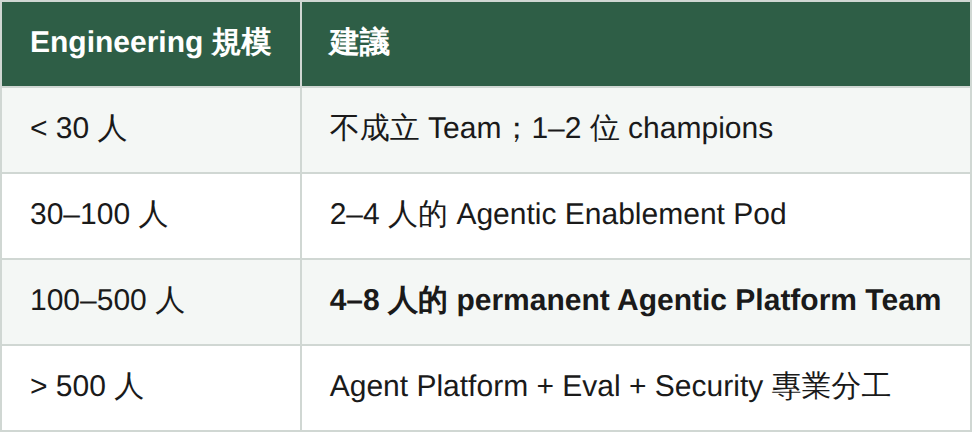
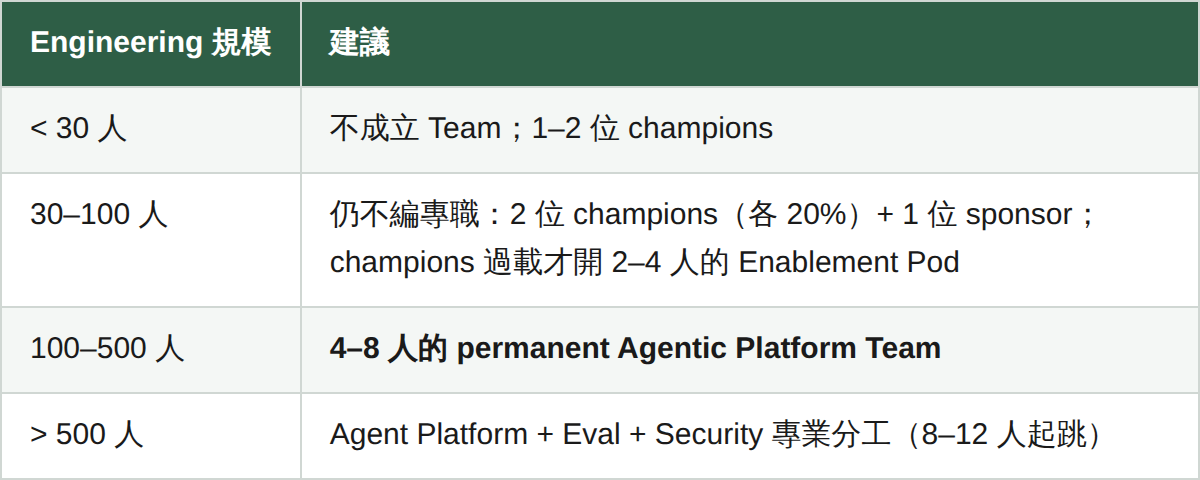
Align overview with trilogy: dedupe AGENTS.md example, fix scale-table contradiction, correct cross-references; regenerate all four Medium publish packs for simultaneous release

diff --git a/2026-09-agentic-engineering-platform/publish/medium-paste.md b/2026-09-agentic-engineering-platform/publish/medium-paste.md
@@ -1,17 +1,24 @@
 <!--
 Medium 發布指南（此註解區塊不要貼進 Medium）
-1. 開新 story：https://medium.com/new-story
-2. 全文複製下方內容貼上（從標題那行開始）。
-3. 看到 📌【在此插入…】的行：刪掉該行，按 + 插入對應的 PNG（zip 內附）。
-4. 圖片下方可加 caption（圖檔對應段落主題）。
-5. AGENTS.md 範例與 North Star 公式那兩段：在 Medium 中選取後按 ``` 轉成 code block。
-6. 引號連結都已是行內 markdown，Medium 貼上後自動轉連結；若沒有，選取文字按 ⌘K 補上。
-7. 發布前：Add tags 建議 AI, Software Engineering, Engineering Management, Agentic AI, DevOps
+
+【四篇同時發布，建議流程】
+1. 依序開四則 story（總論 → 組織篇 → 技術篇 → 營運篇）：https://medium.com/new-story
+2. 各篇貼上對應的 medium-paste.md 內容（從標題那行開始，不含本註解）。
+3. 看到 📌【在此插入…】的行：刪掉該行，按 + 插入同目錄 images/ 裡對應的 PNG。
+4. 四篇都存成草稿後，記下各篇的 Medium URL。
+5. 回頭編輯每一篇，把兩處的系列連結換成真正的 Medium URL：
+   (a) 開頭的「系列導覽」那一行
+   (b) 文末的「系列文章」清單
+   （貼上版裡這些連結是 GitHub 相對路徑，在 Medium 上無效，務必替換）
+6. code block：在 Medium 選取後按 ``` 轉成 code block。
+7. 四篇一起 Publish。Tags 建議：AI, Software Engineering, Engineering Management, Agentic AI, DevOps
 -->
 
 # 別急著打造你的 Devin：Agentic Engineering 的組織策略與 90 天行動藍圖
 
 > **TL;DR** — 多數 Engineering Group 不需要成立一個「幫各 Team 做 Agent」的 silo，但很值得成立一個小型的 **Agentic Engineering Platform / Enablement Team**。而且不要從零打造完整的 agent runtime：正確策略是「**買/採用通用 agent runtime，自建 organization-specific harness layer**」。如果用 DevOps 的歷史對照，2026 年 9 月的 Agentic Engineering，大約等於 DevOps / Cloud Native 的 2014–2016 年：方向已經確定，基礎元件開始出現，但最佳實務與組織架構還沒定型。文末附上前 90 天的行動藍圖。
+
+> 系列導覽：**總論（本篇）** → [一、組織篇](../2026-09-agentic-org-design/article.md) → [二、技術篇](../2026-10-agentic-harness-blueprint/article.md) → [三、營運篇](../2026-11-agentic-eval-economics/article.md)
 
 ---
 
@@ -126,7 +133,7 @@ Ownership 的切分如下：
 
 📌【在此插入表 table-04.png】
 
-即使超過 500 人，我也不會讓中央 Team 負責「替大家做 agents」。
+即使超過 500 人，我也不會讓中央 Team 負責「替大家做 agents」。每一級的實際編制圖、skill mix，以及「什麼時候該升到下一級」的訊號，見[組織篇](../2026-09-agentic-org-design/article.md)。
 
 還有一個常被跳過的問題：**champion 怎麼選、人怎麼轉型**。好的 agent champion 不是「最會寫 prompt 的人」，而是原本就擅長經營 developer experience 的人——會寫測試、會整理文件、對 CI/CD 與 tooling 有 sense 的工程師。因為 harness engineering 本質上就是 DX engineering 的延伸，對象從人換成了 agent 而已。
 
@@ -142,23 +149,20 @@ Ownership 的切分如下：
 
 **Prompt 反而可能是其中最不重要的一小塊。**這也是為什麼業界最近開始講 Harness Engineering，而不再是 Prompt Engineering。
 
-### 一段具體的 AGENTS.md
+### AGENTS.md：寫對與寫錯的差別
 
-「Context」那一支值得給一個具體的樣子。好的 AGENTS.md 不是專案簡介，而是寫給 agent 的 operating manual——每一行都在回答「agent 最可能在哪裡做錯」：
+「Context」那一支值得給一個具體的樣子。好的 AGENTS.md 不是專案簡介，而是寫給 agent 的 operating manual——它存在的目的不是介紹，是預防：
 
-```markdown
-## Build & Test
-- 跑單元測試：`make test`（改動後必跑；CI 只是最後防線）
+```text
+# 寫錯了：描述現況
+本專案是訂單系統，使用 Go 與 PostgreSQL，採用 clean architecture。
+
+# 寫對了：預防犯錯
 - 只跑受影響的測試：`make test FILTER=<path>`——全量測試很慢，別預設跑全量
-
-## Conventions
-- API handler 一律走 `internal/api/` 的 pattern，不要直接在 router 寫邏輯
-- DB migration 用 `make migration name=<snake_case>` 產生，禁止手寫 SQL 檔名
-
-## Boundaries
 - `legacy/` 目錄唯讀：只能呼叫，不能修改——要改，先開 issue 給 @platform-team
-- 任何跨 service 的 schema 變更，必須先更新 `contracts/` 並跑過 contract tests
 ```
+
+上面那段每一句都是真的，但 agent 讀完之後，能做的事一件也沒有多。下面那段每一行都對應一種真實犯過的錯。
 
 判斷品質的標準只有一個：**新來的 agent（或新來的工程師）拿著它，第一天能不能不問人，就交出第一個正確的 PR。**
 
@@ -288,6 +292,17 @@ production correctness
 > **讓任何 agent 都能在你的 Engineering System 裡工作得很好。**
 
 這會是比押注 Codex、Claude Code、Copilot 或 Devin 哪一家勝出，更長期的資產。
+
+---
+
+### 系列文章
+
+本文是「Agentic Engineering 三部曲」的總論，三篇深掘分別把組織、技術、營運講到可以直接開工的深度：
+
+1. **總論（本篇）**：市場現況、DevOps 對照、決策框架與前 90 天藍圖
+2. [一、組織篇：誰來做？Platform + Federation 的組織設計實務](../2026-09-agentic-org-design/article.md)——編制、champion 制度、整併決策、預算敘事
+3. [二、技術篇：Harness 藍圖——把系統變成 agent 讀得懂的地方](../2026-10-agentic-harness-blueprint/article.md)——AGENTS.md 三層架構、MCP gateway、sandbox、brownfield playbook
+4. [三、營運篇：Eval、單位經濟與規模化——把 agent 當產品營運](../2026-11-agentic-eval-economics/article.md)——eval pipeline、成本模型、指標反作弊、scaling gates
 
 ---
 

diff --git a/2026-10-agentic-harness-blueprint/publish/medium-paste.md b/2026-10-agentic-harness-blueprint/publish/medium-paste.md
@@ -1,18 +1,24 @@
 <!--
 Medium 發布指南（此註解區塊不要貼進 Medium）
-1. 開新 story：https://medium.com/new-story
-2. 全文複製下方內容貼上（從標題那行開始）。
-3. 看到 📌【在此插入…】的行：刪掉該行，按 + 插入 images/ 裡對應的 PNG。
-4. 系列連結：發布後把「系列文章」段的 GitHub 相對連結換成各篇的 Medium URL。
-5. code block：在 Medium 選取後按 ``` 轉成 code block。
-6. Add tags 建議：AI, Software Engineering, Engineering Management, Agentic AI, DevOps
+
+【四篇同時發布，建議流程】
+1. 依序開四則 story（總論 → 組織篇 → 技術篇 → 營運篇）：https://medium.com/new-story
+2. 各篇貼上對應的 medium-paste.md 內容（從標題那行開始，不含本註解）。
+3. 看到 📌【在此插入…】的行：刪掉該行，按 + 插入同目錄 images/ 裡對應的 PNG。
+4. 四篇都存成草稿後，記下各篇的 Medium URL。
+5. 回頭編輯每一篇，把兩處的系列連結換成真正的 Medium URL：
+   (a) 開頭的「系列導覽」那一行
+   (b) 文末的「系列文章」清單
+   （貼上版裡這些連結是 GitHub 相對路徑，在 Medium 上無效，務必替換）
+6. code block：在 Medium 選取後按 ``` 轉成 code block。
+7. 四篇一起 Publish。Tags 建議：AI, Software Engineering, Engineering Management, Agentic AI, DevOps
 -->
 
 # Agentic Engineering 三部曲（二）：Harness 藍圖——把系統變成 agent 讀得懂的地方
 
 > **TL;DR** — 三部曲第二篇，寫給要動手蓋的人。核心論點：agent 產出品質的上限不在 model，在你的 harness——context、tools、environment、feedback、guardrails 這五層的品質。本篇給出每一層的 reference implementation：AGENTS.md 的三層架構與防腐機制、MCP gateway 的最小可行設計、sandbox 選型、feedback loop 的 legibility checklist，以及 brownfield 系統的三階段改造 playbook。目標是 Staff engineer 讀完可以直接開工。
 
-> 系列導覽：[總論](../2026-09-agentic-engineering-platform/article.md) → [一、組織篇](../2026-09-agentic-org-design/article.md) → **二、技術篇（本篇）** → 三、營運篇
+> 系列導覽：[總論](../2026-09-agentic-engineering-platform/article.md) → [一、組織篇](../2026-09-agentic-org-design/article.md) → **二、技術篇（本篇）** → [三、營運篇](../2026-11-agentic-eval-economics/article.md)
 
 ---
 
@@ -38,10 +44,10 @@ Prompt 只是 context 層裡的一小片。這也是為什麼業界的用語從 
 
 寫作原則只有兩條：
 
-1. **每一行都要回答「agent 最可能在哪裡做錯」**。描述性內容（這是一個電商後端專案……）是雜訊；指令性內容（怎麼驗證、哪裡不能碰、什麼指令跑什麼）才是 context。
+1. **每一行都要回答「agent 最可能在哪裡做錯」**。描述性內容是雜訊；指令性內容（怎麼驗證、哪裡不能碰、什麼指令跑什麼）才是 context。
 2. **Repo 層壓在 100 行以內**。Context window 不是瓶頸，注意力才是——什麼都寫，等於什麼都沒寫。
 
-一段合格的 repo 層長這樣（每行都對應一種真實犯過的錯）：
+總論給了好壞對照，這裡給可以直接抄的完整版——一段合格的 repo 層長這樣（每行都對應一種真實犯過的錯）：
 
 ```markdown
 ## Build & Test
@@ -59,7 +65,7 @@ Prompt 只是 context 層裡的一小片。這也是為什麼業界的用語從 
 
 ### 防止文件墳場的兩個機制
 
-組織篇講過 AGENTS.md 淪為文件墳場是四大失敗模式之一。技術上的解法有兩個：
+總論點名的四大失敗模式之一，就是 AGENTS.md 淪為文件墳場：每個 repo 都寫了，卻沒有人負責維護、沒有 eval 驗證它是否真的改善 agent 產出。技術上的解法有兩個：
 
 **機制一：鮮度 CI check**。AGENTS.md 裡提到的指令，在 CI 裡實際執行一次——指令失效，PR 直接擋下。文件跟著 code 一起腐爛的老問題，用 CI 解：
 
@@ -187,7 +193,7 @@ Harness 蓋好之後，下一個問題是：你怎麼知道它有沒有用、值
 1. [總論：別急著打造你的 Devin](../2026-09-agentic-engineering-platform/article.md)
 2. [一、組織篇：誰來做？Platform + Federation 的組織設計實務](../2026-09-agentic-org-design/article.md)
 3. **二、技術篇（本篇）**
-4. 三、營運篇：Eval、單位經濟與規模化（即將發布）
+4. [三、營運篇：Eval、單位經濟與規模化——把 agent 當產品營運](../2026-11-agentic-eval-economics/article.md)
 
 ---
 

diff --git a/2026-09-agentic-engineering-platform/article.md b/2026-09-agentic-engineering-platform/article.md
@@ -2,6 +2,8 @@
 
 > **TL;DR** — 多數 Engineering Group 不需要成立一個「幫各 Team 做 Agent」的 silo，但很值得成立一個小型的 **Agentic Engineering Platform / Enablement Team**。而且不要從零打造完整的 agent runtime：正確策略是「**買/採用通用 agent runtime，自建 organization-specific harness layer**」。如果用 DevOps 的歷史對照，2026 年 9 月的 Agentic Engineering，大約等於 DevOps / Cloud Native 的 2014–2016 年：方向已經確定，基礎元件開始出現，但最佳實務與組織架構還沒定型。文末附上前 90 天的行動藍圖。
 
+> 系列導覽：**總論（本篇）** → [一、組織篇](../2026-09-agentic-org-design/article.md) → [二、技術篇](../2026-10-agentic-harness-blueprint/article.md) → [三、營運篇](../2026-11-agentic-eval-economics/article.md)
+
 ---
 
 ## 一、每個 Engineering VP 都在問的問題
@@ -195,11 +197,11 @@ Ownership 的切分如下：
 | Engineering 規模 | 建議 |
 |---:|---|
 | < 30 人 | 不成立 Team；1–2 位 champions |
-| 30–100 人 | 2–4 人的 Agentic Enablement Pod |
+| 30–100 人 | 仍不編專職：2 位 champions（各 20%）+ 1 位 sponsor；champions 過載才開 2–4 人的 Enablement Pod |
 | 100–500 人 | **4–8 人的 permanent Agentic Platform Team** |
-| > 500 人 | Agent Platform + Eval + Security 專業分工 |
+| > 500 人 | Agent Platform + Eval + Security 專業分工（8–12 人起跳） |
 
-即使超過 500 人，我也不會讓中央 Team 負責「替大家做 agents」。
+即使超過 500 人，我也不會讓中央 Team 負責「替大家做 agents」。每一級的實際編制圖、skill mix，以及「什麼時候該升到下一級」的訊號，見[組織篇](../2026-09-agentic-org-design/article.md)。
 
 還有一個常被跳過的問題：**champion 怎麼選、人怎麼轉型**。好的 agent champion 不是「最會寫 prompt 的人」，而是原本就擅長經營 developer experience 的人——會寫測試、會整理文件、對 CI/CD 與 tooling 有 sense 的工程師。因為 harness engineering 本質上就是 DX engineering 的延伸，對象從人換成了 agent 而已。
 
@@ -248,23 +250,20 @@ mindmap
 
 **Prompt 反而可能是其中最不重要的一小塊。**這也是為什麼業界最近開始講 Harness Engineering，而不再是 Prompt Engineering。
 
-### 一段具體的 AGENTS.md
+### AGENTS.md：寫對與寫錯的差別
 
-「Context」那一支值得給一個具體的樣子。好的 AGENTS.md 不是專案簡介，而是寫給 agent 的 operating manual——每一行都在回答「agent 最可能在哪裡做錯」：
+「Context」那一支值得給一個具體的樣子。好的 AGENTS.md 不是專案簡介，而是寫給 agent 的 operating manual——它存在的目的不是介紹，是預防：
 
-```markdown
-## Build & Test
-- 跑單元測試：`make test`（改動後必跑；CI 只是最後防線）
+```text
+# 寫錯了：描述現況
+本專案是訂單系統，使用 Go 與 PostgreSQL，採用 clean architecture。
+
+# 寫對了：預防犯錯
 - 只跑受影響的測試：`make test FILTER=<path>`——全量測試很慢，別預設跑全量
-
-## Conventions
-- API handler 一律走 `internal/api/` 的 pattern，不要直接在 router 寫邏輯
-- DB migration 用 `make migration name=<snake_case>` 產生，禁止手寫 SQL 檔名
-
-## Boundaries
 - `legacy/` 目錄唯讀：只能呼叫，不能修改——要改，先開 issue 給 @platform-team
-- 任何跨 service 的 schema 變更，必須先更新 `contracts/` 並跑過 contract tests
 ```
+
+上面那段每一句都是真的，但 agent 讀完之後，能做的事一件也沒有多。下面那段每一行都對應一種真實犯過的錯。
 
 判斷品質的標準只有一個：**新來的 agent（或新來的工程師）拿著它，第一天能不能不問人，就交出第一個正確的 PR。**
 
@@ -484,7 +483,7 @@ production correctness
 
 ---
 
-### 本系列文章
+### 系列文章
 
 本文是「Agentic Engineering 三部曲」的總論，三篇深掘分別把組織、技術、營運講到可以直接開工的深度：
 

diff --git a/2026-09-agentic-org-design/publish/medium-paste.md b/2026-09-agentic-org-design/publish/medium-paste.md
@@ -1,18 +1,24 @@
 <!--
 Medium 發布指南（此註解區塊不要貼進 Medium）
-1. 開新 story：https://medium.com/new-story
-2. 全文複製下方內容貼上（從標題那行開始）。
-3. 看到 📌【在此插入…】的行：刪掉該行，按 + 插入 images/ 裡對應的 PNG。
-4. 系列連結：發布後把「系列文章」段的 GitHub 相對連結換成各篇的 Medium URL。
-5. code block：在 Medium 選取後按 ``` 轉成 code block。
-6. Add tags 建議：AI, Software Engineering, Engineering Management, Agentic AI, DevOps
+
+【四篇同時發布，建議流程】
+1. 依序開四則 story（總論 → 組織篇 → 技術篇 → 營運篇）：https://medium.com/new-story
+2. 各篇貼上對應的 medium-paste.md 內容（從標題那行開始，不含本註解）。
+3. 看到 📌【在此插入…】的行：刪掉該行，按 + 插入同目錄 images/ 裡對應的 PNG。
+4. 四篇都存成草稿後，記下各篇的 Medium URL。
+5. 回頭編輯每一篇，把兩處的系列連結換成真正的 Medium URL：
+   (a) 開頭的「系列導覽」那一行
+   (b) 文末的「系列文章」清單
+   （貼上版裡這些連結是 GitHub 相對路徑，在 Medium 上無效，務必替換）
+6. code block：在 Medium 選取後按 ``` 轉成 code block。
+7. 四篇一起 Publish。Tags 建議：AI, Software Engineering, Engineering Management, Agentic AI, DevOps
 -->
 
 # Agentic Engineering 三部曲（一）：誰來做？Platform + Federation 的組織設計實務
 
 > **TL;DR** — 這是[《別急著打造你的 Devin》](../2026-09-agentic-engineering-platform/article.md)的第一篇深掘。總論的結論是：不要成立中央 Agent Team，要成立小型的 Agentic Platform Team。這一篇把「怎麼組」講到可以直接拿去開編制會議的程度：三種規模的實際編制、champion 制度的選拔與考核、與現有 DevEx / SRE 的整併決策，以及向 CFO 提案時的預算敘事。
 
-> 系列導覽：[總論](../2026-09-agentic-engineering-platform/article.md) → **一、組織篇（本篇）** → 二、技術篇 → 三、營運篇
+> 系列導覽：[總論](../2026-09-agentic-engineering-platform/article.md) → **一、組織篇（本篇）** → [二、技術篇](../2026-10-agentic-harness-blueprint/article.md) → [三、營運篇](../2026-11-agentic-eval-economics/article.md)
 
 ---
 
@@ -98,7 +104,7 @@ SRE 的角色也一樣：agent observability 直接復用 SRE 的 o11y stack（t
 
 ---
 
-## 六、預算與提案:向 CFO 說什麼
+## 六、預算與提案：向 CFO 說什麼
 
 預算分三個 bucket，第三個最常被漏列：
 
@@ -142,8 +148,8 @@ SRE 的角色也一樣：agent observability 直接復用 SRE 的 o11y stack（t
 
 1. [總論：別急著打造你的 Devin](../2026-09-agentic-engineering-platform/article.md)
 2. **一、組織篇（本篇）**
-3. 二、技術篇：Harness 藍圖（即將發布）
-4. 三、營運篇：Eval、單位經濟與規模化（即將發布）
+3. [二、技術篇：Harness 藍圖——把系統變成 agent 讀得懂的地方](../2026-10-agentic-harness-blueprint/article.md)
+4. [三、營運篇：Eval、單位經濟與規模化——把 agent 當產品營運](../2026-11-agentic-eval-economics/article.md)
 
 ---
 

diff --git a/2026-10-agentic-harness-blueprint/article.md b/2026-10-agentic-harness-blueprint/article.md
@@ -2,7 +2,7 @@
 
 > **TL;DR** — 三部曲第二篇，寫給要動手蓋的人。核心論點：agent 產出品質的上限不在 model，在你的 harness——context、tools、environment、feedback、guardrails 這五層的品質。本篇給出每一層的 reference implementation：AGENTS.md 的三層架構與防腐機制、MCP gateway 的最小可行設計、sandbox 選型、feedback loop 的 legibility checklist，以及 brownfield 系統的三階段改造 playbook。目標是 Staff engineer 讀完可以直接開工。
 
-> 系列導覽：[總論](../2026-09-agentic-engineering-platform/article.md) → [一、組織篇](../2026-09-agentic-org-design/article.md) → **二、技術篇（本篇）** → 三、營運篇
+> 系列導覽：[總論](../2026-09-agentic-engineering-platform/article.md) → [一、組織篇](../2026-09-agentic-org-design/article.md) → **二、技術篇（本篇）** → [三、營運篇](../2026-11-agentic-eval-economics/article.md)
 
 ---
 
@@ -60,10 +60,10 @@ flowchart TB
 
 寫作原則只有兩條：
 
-1. **每一行都要回答「agent 最可能在哪裡做錯」**。描述性內容（這是一個電商後端專案……）是雜訊；指令性內容（怎麼驗證、哪裡不能碰、什麼指令跑什麼）才是 context。
+1. **每一行都要回答「agent 最可能在哪裡做錯」**。描述性內容是雜訊；指令性內容（怎麼驗證、哪裡不能碰、什麼指令跑什麼）才是 context。
 2. **Repo 層壓在 100 行以內**。Context window 不是瓶頸，注意力才是——什麼都寫，等於什麼都沒寫。
 
-一段合格的 repo 層長這樣（每行都對應一種真實犯過的錯）：
+總論給了好壞對照，這裡給可以直接抄的完整版——一段合格的 repo 層長這樣（每行都對應一種真實犯過的錯）：
 
 ```markdown
 ## Build & Test
@@ -81,7 +81,7 @@ flowchart TB
 
 ### 防止文件墳場的兩個機制
 
-組織篇講過 AGENTS.md 淪為文件墳場是四大失敗模式之一。技術上的解法有兩個：
+總論點名的四大失敗模式之一，就是 AGENTS.md 淪為文件墳場：每個 repo 都寫了，卻沒有人負責維護、沒有 eval 驗證它是否真的改善 agent 產出。技術上的解法有兩個：
 
 **機制一：鮮度 CI check**。AGENTS.md 裡提到的指令，在 CI 裡實際執行一次——指令失效，PR 直接擋下。文件跟著 code 一起腐爛的老問題，用 CI 解：
 
@@ -239,7 +239,7 @@ Harness 蓋好之後，下一個問題是：你怎麼知道它有沒有用、值
 1. [總論：別急著打造你的 Devin](../2026-09-agentic-engineering-platform/article.md)
 2. [一、組織篇：誰來做？Platform + Federation 的組織設計實務](../2026-09-agentic-org-design/article.md)
 3. **二、技術篇（本篇）**
-4. 三、營運篇：Eval、單位經濟與規模化（即將發布）
+4. [三、營運篇：Eval、單位經濟與規模化——把 agent 當產品營運](../2026-11-agentic-eval-economics/article.md)
 
 ---
 

diff --git a/2026-09-agentic-org-design/article.md b/2026-09-agentic-org-design/article.md
@@ -2,7 +2,7 @@
 
 > **TL;DR** — 這是[《別急著打造你的 Devin》](../2026-09-agentic-engineering-platform/article.md)的第一篇深掘。總論的結論是：不要成立中央 Agent Team，要成立小型的 Agentic Platform Team。這一篇把「怎麼組」講到可以直接拿去開編制會議的程度：三種規模的實際編制、champion 制度的選拔與考核、與現有 DevEx / SRE 的整併決策，以及向 CFO 提案時的預算敘事。
 
-> 系列導覽：[總論](../2026-09-agentic-engineering-platform/article.md) → **一、組織篇（本篇）** → 二、技術篇 → 三、營運篇
+> 系列導覽：[總論](../2026-09-agentic-engineering-platform/article.md) → **一、組織篇（本篇）** → [二、技術篇](../2026-10-agentic-harness-blueprint/article.md) → [三、營運篇](../2026-11-agentic-eval-economics/article.md)
 
 ---
 
@@ -143,7 +143,7 @@ SRE 的角色也一樣：agent observability 直接復用 SRE 的 o11y stack（t
 
 ---
 
-## 六、預算與提案:向 CFO 說什麼
+## 六、預算與提案：向 CFO 說什麼
 
 預算分三個 bucket，第三個最常被漏列：
 
@@ -191,8 +191,8 @@ SRE 的角色也一樣：agent observability 直接復用 SRE 的 o11y stack（t
 
 1. [總論：別急著打造你的 Devin](../2026-09-agentic-engineering-platform/article.md)
 2. **一、組織篇（本篇）**
-3. 二、技術篇：Harness 藍圖（即將發布）
-4. 三、營運篇：Eval、單位經濟與規模化（即將發布）
+3. [二、技術篇：Harness 藍圖——把系統變成 agent 讀得懂的地方](../2026-10-agentic-harness-blueprint/article.md)
+4. [三、營運篇：Eval、單位經濟與規模化——把 agent 當產品營運](../2026-11-agentic-eval-economics/article.md)
 
 ---
 

diff --git a/2026-11-agentic-eval-economics/publish/medium-paste.md b/2026-11-agentic-eval-economics/publish/medium-paste.md
@@ -1,11 +1,17 @@
 <!--
 Medium 發布指南（此註解區塊不要貼進 Medium）
-1. 開新 story：https://medium.com/new-story
-2. 全文複製下方內容貼上（從標題那行開始）。
-3. 看到 📌【在此插入…】的行：刪掉該行，按 + 插入 images/ 裡對應的 PNG。
-4. 系列連結：發布後把「系列文章」段的 GitHub 相對連結換成各篇的 Medium URL。
-5. code block：在 Medium 選取後按 ``` 轉成 code block。
-6. Add tags 建議：AI, Software Engineering, Engineering Management, Agentic AI, DevOps
+
+【四篇同時發布，建議流程】
+1. 依序開四則 story（總論 → 組織篇 → 技術篇 → 營運篇）：https://medium.com/new-story
+2. 各篇貼上對應的 medium-paste.md 內容（從標題那行開始，不含本註解）。
+3. 看到 📌【在此插入…】的行：刪掉該行，按 + 插入同目錄 images/ 裡對應的 PNG。
+4. 四篇都存成草稿後，記下各篇的 Medium URL。
+5. 回頭編輯每一篇，把兩處的系列連結換成真正的 Medium URL：
+   (a) 開頭的「系列導覽」那一行
+   (b) 文末的「系列文章」清單
+   （貼上版裡這些連結是 GitHub 相對路徑，在 Medium 上無效，務必替換）
+6. code block：在 Medium 選取後按 ``` 轉成 code block。
+7. 四篇一起 Publish。Tags 建議：AI, Software Engineering, Engineering Management, Agentic AI, DevOps
 -->
 
 # Agentic Engineering 三部曲（三）：Eval、單位經濟與規模化——把 agent 當產品營運
